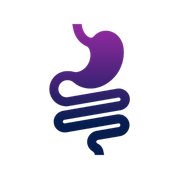
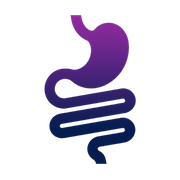
Le tableau de bord devient une liste de patients et ses filtres
La section « À rappeler » faisait doublon avec la tuile du même nom :
deux endroits pour la même information, et aucun des deux ne donnait
accès au reste des dossiers. Elle disparaît.

À la place, une seule liste. Par défaut tous les dossiers à venir ;
chaque tuile et chaque jalon la restreint. Les tuiles deviennent donc
des filtres : « Préparations en cours », « Alertes » et « Vacation du
jour » se touchent et marquent leur sélection. « Conformité » reste un
chiffre, il ne désigne pas une liste.

« À rappeler » s'appelle « Alertes », au tableau comme dans le menu et
sur sa page : c'est le même objet, et personne ne pensait « rappel » en
le lisant. La tuile porte le triangle d'alerte et se teinte de rouge dès
qu'elle compte quelque chose — c'est la seule du tableau qu'on ne doit
pas pouvoir ne pas voir.

« Préparations en cours » change de définition : les dossiers dont
l'examen tombe dans les quatorze jours. Un patient à J-20 a bien reçu
son premier SMS, mais rien ne se joue encore chez lui.

Les icônes d'installation repassent en PNG transparent, glyphe à 96 %.
Le fond blanc opaque se faisait rogner les coins par le masque arrondi
de macOS. L'icône « maskable » est retirée : c'était elle que le système
recadrait. L'icône iOS garde son fond blanc — iOS ne gère pas la
transparence et masque de toute façon.

Changed region(s): [[0.2222, 0.0833, 0.7778, 0.9167]]

diff --git a/dashboard/src/practitioner/Dashboard.jsx b/dashboard/src/practitioner/Dashboard.jsx
@@ -1,10 +1,9 @@
 import { useState } from 'react';
 import { Link } from 'react-router-dom';
 import {
-  AlertTriangle, ChevronRight, ListChecks, PhoneCall, ShieldCheck, UsersRound, CalendarDays, Send, Plus, Banknote, Settings,
+  AlertTriangle, ChevronRight, ListChecks, ShieldCheck, UsersRound, CalendarDays, Send, Plus, Banknote, Settings,
 } from '../components/icones.js';
 import { useDossiers } from '../lib/store.js';
-import FileRappels, { fileDAppels } from './FileRappels.jsx';
 import { calculerScore, statutRisque, alertesActives } from '../lib/score.js';
 import { etapesDe, joursAvant } from '../lib/examens.js';
 import { prochainsEnvois, smsEchus } from '../lib/sms.js';
@@ -13,11 +12,24 @@ import { TONS } from '../components/ui.jsx';
 import { EnTete } from './Coquille.jsx';
 import Jalon from '../components/Jalon.jsx';
 
-/** Tuile flottante : elle se détache du fond, la valeur prime sur l'habillage. */
-function Data({ libelle, valeur, unite, detail, ton = 'marque', icone }) {
+/**
+ * Tuile de tête. Elle montre un chiffre et, quand elle en porte un, filtre la
+ * liste sur les dossiers qu'elle compte. Une tuile d'alerte se teinte de rouge :
+ * c'est la seule du tableau qu'on ne doit pas pouvoir ne pas voir.
+ */
+function Data({ libelle, valeur, unite, detail, ton = 'marque', icone, onClick, actif }) {
   const t = TONS[ton];
+  const alerte = ton === 'ruby';
+  const Balise = onClick ? 'button' : 'div';
+  const peau = alerte
+    ? 'border-rose-300 bg-rose-50/90 shadow-[inset_0_1px_0_0_rgba(255,255,255,0.9),0_16px_36px_-10px_rgba(190,18,60,0.26)]'
+    : 'border-white/70 bg-white/70 shadow-[inset_0_1px_0_0_rgba(255,255,255,0.95),0_2px_4px_0_rgba(5,28,78,0.04),0_16px_36px_-10px_rgba(5,28,78,0.14)]';
+  const marque = actif ? (alerte ? 'ring-2 ring-rose-500/70' : 'ring-2 ring-navy/45') : '';
   return (
-    <div className="relative rounded-2xl border border-white/70 bg-white/70 p-5 backdrop-blur-2xl backdrop-saturate-[180%] shadow-[inset_0_1px_0_0_rgba(255,255,255,0.95),0_2px_4px_0_rgba(5,28,78,0.04),0_16px_36px_-10px_rgba(5,28,78,0.14)] transition-transform duration-300 hover:-translate-y-0.5">
+    <Balise
+      {...(onClick ? { type: 'button', onClick, 'aria-pressed': actif } : {})}
+      className={`relative w-full rounded-2xl border p-5 text-left backdrop-blur-2xl backdrop-saturate-[180%] transition-all duration-300 ${peau} ${marque} ${onClick ? 'hover:-translate-y-0.5 focus:outline-none focus-visible:ring-2 focus-visible:ring-navy/40' : ''}`}
+    >
       <div className="flex items-start justify-between gap-3">
         <p className="text-[11px] font-semibold uppercase tracking-wider text-slate-600">{libelle}</p>
         <span className={`flex size-8 shrink-0 items-center justify-center rounded-lg ${t.fond} ${t.texte}`}>
@@ -31,7 +43,7 @@ function Data({ libelle, valeur, unite, detail, ton = 'marque', icone }) {
         {unite ? <span className="text-xs font-medium text-slate-600">{unite}</span> : null}
       </p>
       <p className="mt-1.5 text-[11px] leading-relaxed text-slate-600">{detail}</p>
-    </div>
+    </Balise>
   );
 }
 
@@ -108,10 +120,15 @@ function parJalon(patients) {
 export default function Dashboard() {
   const { patients, cabinet } = useDossiers();
   const aVenir = patients.filter((p) => joursAvant(p) >= 0);
-  const file = fileDAppels(aVenir);
   const jalons = parJalon(aVenir);
   const [filtre, setFiltre] = useState(null);
-  const selection = jalons.find((j) => j.cle === filtre)?.patients ?? [];
+
+  // Un dossier est « actif » quand son examen est dans les quatorze jours.
+  // Au-delà, l'échéancier a commencé mais rien ne se joue encore.
+  const actifs = aVenir.filter((p) => joursAvant(p) <= 14);
+  const enAlerte = aVenir.filter((p) => alertesActives(p).length > 0);
+
+  const basculer = (cle) => setFiltre(filtre === cle ? null : cle);
 
   const duJour = aVenir.filter((p) => joursAvant(p) === 0).sort((a, b) => new Date(a.examen.date) - new Date(b.examen.date));
   const semaine = aVenir.filter((p) => joursAvant(p) > 0 && joursAvant(p) <= 7).sort((a, b) => new Date(a.examen.date) - new Date(b.examen.date));
@@ -139,6 +156,17 @@ export default function Dashboard() {
   const aDeplacer = conseille.filter((p, i) => p.id !== duJour[i].id).length;
   const interceptes = aVenir.filter((p) => alertesActives(p).some((a) => a.ton === 'ruby')).length;
 
+  // Les vues du tableau : chaque tuile et chaque jalon désigne une liste.
+  const VUES = {
+    actifs: { libelle: 'en préparation active — examen dans les quatorze jours', liste: actifs },
+    alertes: { libelle: 'en alerte', liste: enAlerte },
+    jour: { libelle: 'dont l’examen a lieu aujourd’hui', liste: duJour },
+  };
+  const vue = filtre?.startsWith('jalon:')
+    ? { libelle: `à l’étape ${filtre.slice(6)}`, liste: jalons.find((j) => j.cle === filtre.slice(6))?.patients ?? [] }
+    : VUES[filtre] ?? { libelle: 'au total', liste: aVenir };
+  const selection = [...vue.liste].sort((a, b) => new Date(a.examen.date) - new Date(b.examen.date));
+
   return (
     <>
       <EnTete
@@ -165,14 +193,16 @@ export default function Dashboard() {
         ) : null}
         <div className="grid gap-4 sm:grid-cols-2 xl:grid-cols-4">
           <Data
-            libelle="Préparations en cours" valeur={enCours} unite={`/ ${aVenir.length}`}
-            detail="Patients dont l’échéancier SMS n’est pas terminé"
+            libelle="Préparations en cours" valeur={actifs.length} unite={`/ ${aVenir.length}`}
+            detail="Examen dans les quatorze jours"
             icone={<UsersRound size={15} />}
+            onClick={() => basculer('actifs')} actif={filtre === 'actifs'}
           />
           <Data
-            libelle="À rappeler" valeur={file.length}
-            detail={file.length ? 'Un appel par patient, motifs regroupés' : 'Aucun écart en attente'}
-            ton={file.length ? 'ruby' : 'emerald'} icone={<PhoneCall size={15} />}
+            libelle="Alertes" valeur={enAlerte.length}
+            detail={enAlerte.length ? 'Dossiers à reprendre avant l’examen' : 'Aucun écart en attente'}
+            ton={enAlerte.length ? 'ruby' : 'emerald'} icone={<AlertTriangle size={15} />}
+            onClick={() => basculer('alertes')} actif={filtre === 'alertes'}
           />
           <Data
             libelle="Conformité des déclarations" valeur={conformite ?? '—'} unite={conformite === null ? '' : '%'}
@@ -184,49 +214,48 @@ export default function Dashboard() {
             libelle="Vacation du jour" valeur={`${prets}/${duJour.length}`}
             detail="Patients prêts pour leur examen aujourd’hui"
             ton={duJour.length && prets === duJour.length ? 'emerald' : 'amber'} icone={<ShieldCheck size={15} />}
+            onClick={duJour.length ? () => basculer('jour') : undefined} actif={filtre === 'jour'}
           />
         </div>
 
-        {jalons.length ? (
-          <section className="mt-8">
-            <Titre icone={<ListChecks size={14} />}>Où en sont les patients</Titre>
+        <section className="mt-8">
+          <Titre
+            icone={<ListChecks size={14} />}
+            action={filtre ? (
+              <button type="button" onClick={() => setFiltre(null)} className="text-[11px] font-medium text-navy hover:underline">
+                Tout afficher
+              </button>
+            ) : null}
+          >
+            Où en sont les patients
+          </Titre>
+
+          {jalons.length ? (
             <div className="flex flex-wrap gap-2.5">
               {jalons.map(({ cle, patients: groupe }) => (
                 <button
                   key={cle}
                   type="button"
-                  onClick={() => setFiltre(filtre === cle ? null : cle)}
-                  aria-pressed={filtre === cle}
+                  onClick={() => basculer(`jalon:${cle}`)}
+                  aria-pressed={filtre === `jalon:${cle}`}
                   aria-label={`${cle} — ${groupe.length} patient${groupe.length > 1 ? 's' : ''}`}
                   className="rounded-full transition-transform duration-200 hover:-translate-y-0.5 focus:outline-none focus-visible:ring-2 focus-visible:ring-navy/40"
                 >
-                  <Jalon taille="m" ton={filtre === cle ? 'plein' : 'clair'}>{cle}</Jalon>
+                  <Jalon taille="m" ton={filtre === `jalon:${cle}` ? 'plein' : 'clair'}>{cle}</Jalon>
                 </button>
               ))}
             </div>
-            {filtre ? (
-              <div className="mt-4 rise">
-                <p className="mb-2.5 text-[11px] text-slate-600">
-                  {selection.length} patient{selection.length > 1 ? 's' : ''}{' '}
-                  {filtre === 'J-J' ? 'dont la préparation est close, en attente de l’examen' : `à l’étape ${filtre}`}
-                </p>
-                <div className="space-y-2">{selection.map((p) => <Ligne key={p.id} patient={p} />)}</div>
-              </div>
-            ) : (
-              <p className="mt-3 text-[11px] text-slate-500">Touchez un jalon pour voir les patients qui s’y trouvent.</p>
-            )}
-          </section>
-        ) : null}
+          ) : null}
 
-        <section className="mt-8">
-          <Titre
-            icone={<PhoneCall size={14} />}
-            action={file.length > 3 ? <Link to="/rappels" className="text-[11px] font-medium text-navy hover:underline">Voir les {file.length} rappels →</Link> : null}
-          >
-            À rappeler
-            {file.length ? <span className="rounded-full bg-rose-500 px-1.5 py-0.5 text-[10px] font-bold text-white">{file.length}</span> : null}
-          </Titre>
-          <FileRappels file={file.slice(0, 3)} />
+          <p className="mt-4 mb-2.5 text-[11px] text-slate-600">
+            {selection.length} patient{selection.length > 1 ? 's' : ''}{' '}
+            {filtre === 'jalon:J-J' ? 'dont la préparation est close, en attente de l’examen' : vue.libelle}
+          </p>
+          {selection.length ? (
+            <div className="space-y-2 rise">{selection.map((p) => <Ligne key={p.id} patient={p} />)}</div>
+          ) : (
+            <p className="rounded-xl border border-navy/[0.07] bg-white/60 p-5 text-sm text-slate-600">Aucun dossier dans cette vue.</p>
+          )}
         </section>
 
         <div className="mt-8 grid grid-cols-[minmax(0,1fr)] gap-8 xl:grid-cols-[minmax(0,1fr)_24rem]">

diff --git a/dashboard/src/practitioner/Coquille.jsx b/dashboard/src/practitioner/Coquille.jsx
@@ -14,7 +14,7 @@ const GROUPES = [
     titre: 'Suivi',
     sections: [
       { to: '/', fin: true, label: 'Accueil', complet: 'Tableau de bord', icone: LayoutDashboard, mobile: 0 },
-      { to: '/rappels', label: 'Rappels', complet: 'À rappeler', icone: PhoneCall, compteur: 'rappels', mobile: 1 },
+      { to: '/rappels', label: 'Rappels', complet: 'Alertes', icone: PhoneCall, compteur: 'rappels', mobile: 1 },
       { to: '/vacations', label: 'Vacations', complet: 'Vacations', icone: CalendarDays },
     ],
   },

diff --git a/dashboard/index.html b/dashboard/index.html
@@ -5,7 +5,7 @@
     <meta name="viewport" content="width=device-width, initial-scale=1.0, viewport-fit=cover" />
     <meta name="theme-color" content="#051C4E" />
     <link rel="icon" type="image/png" href="/favicon.png" />
-    <link rel="apple-touch-icon" href="/apple-touch-icon.png?v=2" />
+    <link rel="apple-touch-icon" href="/apple-touch-icon.png?v=3" />
     <link rel="manifest" href="/manifest.webmanifest" />
     <title>Endova — Suivi préopératoire</title>
   </head>

diff --git a/dashboard/src/practitioner/Rappels.jsx b/dashboard/src/practitioner/Rappels.jsx
@@ -31,7 +31,7 @@ export default function Rappels() {
   return (
     <>
       <EnTete
-        titre="À rappeler"
+        titre="Alertes"
         question="Un patient, un appel : tous ses motifs regroupés, et la phrase à lui dire. Une alerte traitée sort de la file."
       />
       <div className="px-5 pt-6 sm:px-8">
